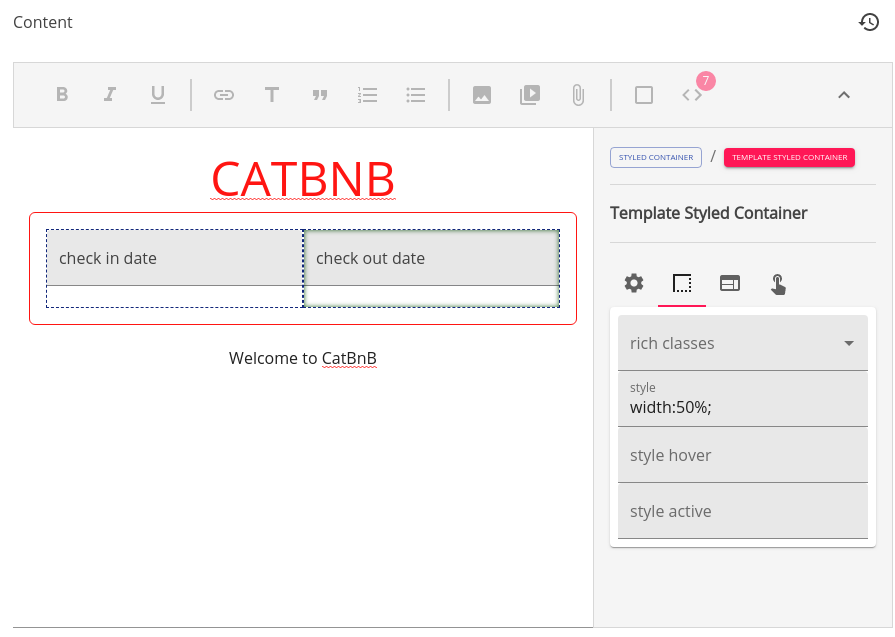
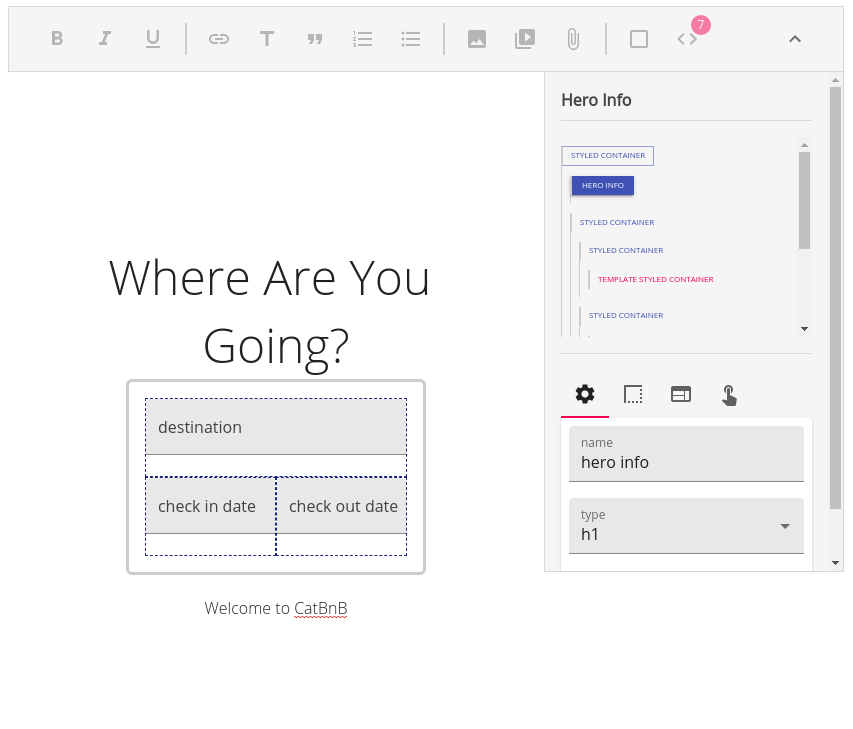
progress

diff --git a/client/fast-prototyping/components/slate/drawer/general.tsx b/client/fast-prototyping/components/slate/drawer/general.tsx
@@ -281,6 +281,10 @@ interface IGeneralImageOptionsState {
    */
   altValue: string;
   /**
+   * The sizes value that is used for image scale loading
+   */
+  sizes: string;
+  /**
    * The anchor that the image is selected for as we follow the same
    * pattern as the other editor
    */
@@ -299,6 +303,7 @@ class GeneralImageOptions extends React.PureComponent<MaterialUISlateWrapperWith
    * we can just wait some milliseconds
    */
   private altUpdateTimeout: NodeJS.Timer;
+  private sizesUpdateTimeout: NodeJS.Timer;
 
   /**
    * We need the derived function in order to be able to update the value of the
@@ -314,6 +319,7 @@ class GeneralImageOptions extends React.PureComponent<MaterialUISlateWrapperWith
     if (
       (
         (selectedNode.alt || "") !== state.altValue ||
+        (selectedNode.sizes || "") !== state.sizes ||
         selectedNode.standalone !== state.standalone
       ) &&
       !Path.equals(props.state.currentSelectedNodeAnchor, state.valueForAnchor)
@@ -321,6 +327,7 @@ class GeneralImageOptions extends React.PureComponent<MaterialUISlateWrapperWith
       return {
         altValue: selectedNode.alt || "",
         standalone: selectedNode.standalone,
+        sizes: selectedNode.sizes || "",
         valueForAnchor: props.state.currentSelectedNodeAnchor,
       }
     }
@@ -340,6 +347,7 @@ class GeneralImageOptions extends React.PureComponent<MaterialUISlateWrapperWith
     this.state = {
       altValue: selectedNode.alt || "",
       standalone: selectedNode.standalone,
+      sizes: selectedNode.sizes || "",
       valueForAnchor: props.state.currentSelectedNodeAnchor,
     }
 
@@ -361,6 +369,18 @@ class GeneralImageOptions extends React.PureComponent<MaterialUISlateWrapperWith
   }
 
   /**
+   * Performs the actually update of the sizes based on the
+   * state and when the timer has finally ellapsed
+   */
+  public actuallyUpdateSizes() {
+    // here we use the arbitrary partial value set function
+    // to update the node at the given anchor
+    this.props.helpers.set({
+      sizes: this.state.sizes,
+    }, this.props.state.currentSelectedNodeAnchor);
+  }
+
+  /**
    * Performs the state update of the alt into the state
    * and delays the execution of the update in the node
    * in order to avoid doing a tree update of the rich text
@@ -377,6 +397,25 @@ class GeneralImageOptions extends React.PureComponent<MaterialUISlateWrapperWith
     clearTimeout(this.altUpdateTimeout);
     // and then we create a new timeout in 300 ms
     this.altUpdateTimeout = setTimeout(this.actuallyUpdateAlt, 300);
+  }
+
+  /**
+   * Performs the state update of the alt into the state
+   * and delays the execution of the update in the node
+   * in order to avoid doing a tree update of the rich text
+   * on every key stroke
+   * @param e the change event in the input
+   */
+  public updateSizes(e: React.ChangeEvent<HTMLInputElement>) {
+    // update the state
+    this.setState({
+      sizes: e.target.value,
+    });
+
+    // now we clear a possibly existant previous timeout
+    clearTimeout(this.sizesUpdateTimeout);
+    // and then we create a new timeout in 300 ms
+    this.sizesUpdateTimeout = setTimeout(this.actuallyUpdateSizes, 300);
   }
 
   /**
@@ -408,6 +447,14 @@ class GeneralImageOptions extends React.PureComponent<MaterialUISlateWrapperWith
           placeholder={this.props.i18nRichInfo.alt}
           variant="filled"
           onChange={this.updateAlt}
+          fullWidth={true}
+        />
+        <TextField
+          value={this.state.sizes}
+          label={this.props.i18nRichInfo.sizes}
+          placeholder={this.props.i18nRichInfo.sizes}
+          variant="filled"
+          onChange={this.updateSizes}
           fullWidth={true}
         />
         <FormControlLabel

diff --git a/setup/src/schema-files/main-i18n.properties.js b/setup/src/schema-files/main-i18n.properties.js
@@ -45,6 +45,7 @@ format_more = more options
 
 rich_name = name
 rich_alt = alt
+rich_sizes = sizes
 rich_container = container
 rich_inline = inline
 rich_text = text
@@ -210,6 +211,7 @@ format_more = lisää
 
 rich_name = nimi
 rich_alt = alt
+rich_sizes = sizes
 rich_container = container
 rich_inline = inline
 rich_text = text
@@ -375,6 +377,7 @@ format_more = more options
 
 rich_name = name
 rich_alt = alt
+rich_sizes = sizes
 rich_container = container
 rich_inline = inline
 rich_text = text
@@ -540,6 +543,7 @@ format_more = more options
 
 rich_name = name
 rich_alt = alt
+rich_sizes = sizes
 rich_container = container
 rich_inline = inline
 rich_text = text
@@ -705,6 +709,7 @@ format_more = más opciones
 
 rich_name = nombre
 rich_alt = alt
+rich_sizes = sizes
 rich_container = contenedor
 rich_inline = inline
 rich_text = texto
@@ -870,6 +875,7 @@ format_more = more options
 
 rich_name = name
 rich_alt = alt
+rich_sizes = sizes
 rich_container = container
 rich_inline = inline
 rich_text = text

diff --git a/client/internal/text/index.tsx b/client/internal/text/index.tsx
@@ -311,6 +311,7 @@ export function postprocess(
       const alt = (node as HTMLImageElement).alt || "";
       const srcHeight = node.dataset.srcHeight;
       const srcWidth = node.dataset.srcWidth;
+      const sizes = (node as HTMLImageElement).sizes || "70vw";
 
       node.removeAttribute("loading");
 
@@ -337,7 +338,7 @@ export function postprocess(
         // src
         node.setAttribute("src", absolutedFile ? absolutedFile.url : "/rest/resource/image-fail.svg");
         // sizes
-        node.setAttribute("sizes", "70vw");
+        node.setAttribute("sizes", sizes);
         // data-src-width
         node.dataset.srcWidth = srcWidth;
         // data-src-id

diff --git a/client/internal/components/PropertyEntry/PropertyEntryText.tsx b/client/internal/components/PropertyEntry/PropertyEntryText.tsx
@@ -68,6 +68,7 @@ export interface IPropertyEntryI18nRichTextInfo {
 
   name: string;
   alt: string;
+  sizes: string;
   container: string;
   inline: string;
   text: string;
@@ -767,7 +768,8 @@ export default class PropertyEntryText
         formatMore: i18nInLanguage.format_more,
 
         name: i18nInLanguage.rich_name,
-        alt: i18nInLanguage.alt,
+        alt: i18nInLanguage.rich_alt,
+        sizes: i18nInLanguage.rich_sizes,
         container: i18nInLanguage.rich_container,
         inline: i18nInLanguage.rich_inline,
         text: i18nInLanguage.rich_text,

diff --git a/base/Root/Module/ItemDefinition/PropertyDefinition/sql/text.ts b/base/Root/Module/ItemDefinition/PropertyDefinition/sql/text.ts
@@ -68,7 +68,7 @@ export function textSQLIn(arg: ISQLInInfo) {
       // as well as iframe content
       // and they might not be cleaned in the client side during setting since values tend to be fairly hot during
       // retrival, so they are cleaned here as well
-      FORBID_ATTR: ["sizes", "srcset", "src", "data-src", "loading", "id"],
+      FORBID_ATTR: ["srcset", "src", "data-src", "loading", "id"],
     });
   }
 

diff --git a/client/internal/text/serializer/base.tsx b/client/internal/text/serializer/base.tsx
@@ -182,7 +182,7 @@ export function serializeElementBase(
   // now we go over each one of the properties of the base
   Object.keys(base).forEach((k) => {
     // and check for a translation
-    if (translations[k]) {
+    if (translations[k] && typeof base[k] !== "undefined" && base[k] !== null) {
       // set it if there's such
       elementComponent.setAttribute(translations[k], base[k]);
     }

diff --git a/client/internal/text/serializer/types/image.tsx b/client/internal/text/serializer/types/image.tsx
@@ -319,7 +319,6 @@ export interface IImage extends IElementBase {
   srcSet: string;
   /**
    * sizes of the image
-   * sizes is a property that is removed
    */
   sizes: string;
   /**

diff --git a/constants.ts b/constants.ts
@@ -377,6 +377,7 @@ export const LOCALE_I18N = [
   // extra rich element information
   "rich_name",
   "rich_alt",
+  "rich_sizes",
   "rich_container",
   "rich_inline",
   "rich_text",

diff --git a/docs/tutorials/airbnb/07-redesign.md b/docs/tutorials/airbnb/07-redesign.md
@@ -166,11 +166,9 @@ Going to our header we will find we have 7 html template bits to use, and if we 
 
 ![Template Header Making](./images/template-header-making.png)
 
-Now if we go to our actual frontpage, we will find that it doesn't look quite right.
+Now if we go to our actual frontpage, we will find that it doesn't look quite right, the contents are missing and it just looks off overall.
 
-![CatBnB Header Attempt](./images/catbnb-header-attempt.png)
-
-This is rightly because we have just told our edit renderer how to edit this fragment, but when we are using it we are rendering it as it is; as raw plain html, rather than instantiating it as a template.
+This is rightly because we have just told our edit renderer how to render this fragment using the available information, but when we are using it we are rendering it as it is; as raw plain html, rather than instantiating it as a template.
 
 Let's remake our `frontpage/index.tsx` as a primarily fragment based mechanism based on our header and body.
 
@@ -276,4 +274,10 @@ export function Frontpage() {
 }
 ```
 
-Now we can remove both `hero.tsx` and `search.tsx` as we don't need them any further, let's try to then make it look nice, this simple design shall suffice.
+Now we can remove both `hero.tsx` and `search.tsx` as we don't need them any further, if you check now your frontpage the view should have changed to the more appropiate look of:
+
+![Catbnb New Frontpage](./images/catbnb-new-frontpage.png)
+
+Which is more like what we are aiming for, now let's try to go further and make it look nice; as you might realize these fragments support images so it is totally possible to add a new image to them and style them in the rich text editor itself.
+
+Now let's say this is not enough at all, and we need to give our designer some resources and classes to work with.
